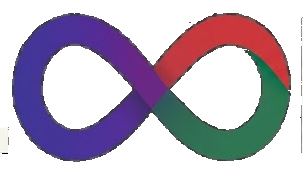
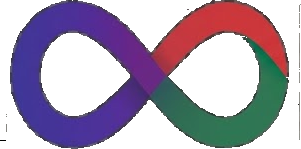
Aplica padrao visual Promote + secao "Ultimos lancamentos"
Mesmo padrao dos outros sites da rede: nav full-width (logo empilhada +
nome do site atual), fundo solido #100614 apos rolar, abas laterais fixas,
preloader com equalizador, cards de texto sem borda estatica, tipografia
Anton/Poppins/Lato/Abel, mobile com logo centralizada. Corrigido gradiente
de hover que estava em laranja (contra a regra da marca) pro roxo/vermelho/
verde oficial. Icone do infinito limpo da mancha branca.

Nova secao "Ultimos lancamentos" com os 4 lancamentos reais mais recentes
de Eder Machado (mesmos dados confirmados ja usados em
emmusicproducoes.com.br), com links Spotify/Apple/Deezer/YouTube em cards
sem borda, icones brancos.

diff --git a/src/styles/global.css b/src/styles/global.css
@@ -52,18 +52,21 @@
   }
 }
 
-/* brilho de borda com a cor da assinatura (laranja) ao passar o mouse nos cards:
-   só cor, sem mover/escalar nada (nunca usar tração/scale no hover) */
+/* cards de texto: sem borda estatica, so sombra leve parada + brilho de borda
+   gradiente (infinito roxo->vermelho->verde, nunca laranja/dourado - regra da
+   marca) e elevacao leve no hover */
 .glow-card {
   position: relative;
+  box-shadow: 0 1px 4px rgba(0, 0, 0, 0.35);
+  transition: box-shadow 0.35s ease, transform 0.35s ease;
 }
 .glow-card::before {
   content: '';
   position: absolute;
   inset: 0;
   border-radius: inherit;
-  padding: 1.5px;
-  background: linear-gradient(135deg, #ff6a00, #da5601);
+  padding: 1px;
+  background: linear-gradient(135deg, #4a39a2, #d33d3f, #327857);
   -webkit-mask: linear-gradient(#fff 0 0) content-box, linear-gradient(#fff 0 0);
   -webkit-mask-composite: xor;
   mask-composite: exclude;
@@ -71,8 +74,42 @@
   transition: opacity 0.35s ease;
   pointer-events: none;
 }
+.glow-card:hover {
+  box-shadow: 0 10px 30px -8px rgba(211, 61, 63, 0.35), 0 6px 20px -8px rgba(74, 57, 162, 0.35);
+  transform: translateY(-2px);
+}
 .glow-card:hover::before {
   opacity: 1;
+}
+@media (prefers-reduced-motion: reduce) {
+  .glow-card:hover { transform: none; }
+}
+
+.nav-overlay-gradient {
+  background: linear-gradient(to bottom, rgba(0, 0, 0, 0.75) 0%, rgba(0, 0, 0, 0.45) 65%, rgba(0, 0, 0, 0) 100%);
+  padding-bottom: 2.5rem;
+  margin-bottom: -2.5rem;
+  transition: background 0.3s ease;
+}
+.nav-overlay-gradient.nav-solid {
+  background: #100614;
+  padding-bottom: 0;
+  margin-bottom: 0;
+}
+
+.media-card {
+  border-radius: 6px;
+  box-shadow: 0 1px 3px rgba(0, 0, 0, 0.3);
+  transition: box-shadow 0.3s ease, transform 0.3s ease;
+  transform: translateZ(0);
+  backface-visibility: hidden;
+}
+.media-card:hover {
+  box-shadow: 0 18px 32px -12px rgba(0, 0, 0, 0.55);
+  transform: translateY(-3px) translateZ(0);
+}
+@media (prefers-reduced-motion: reduce) {
+  .media-card:hover { transform: none; }
 }
 
 /* facade de vídeo: thumbnail clicável que vira iframe do YouTube só quando
